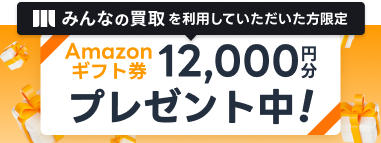
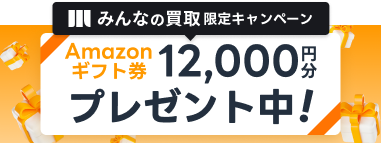
電話CTAのキャンペーンバナーを新デザインに差し替える (#19)
Figma「みんなの買取」202607_電話送客プロジェクトの更新に追従。
上部リボンの文言が「みんなの買取を利用していただいた方限定」から
「みんなの買取限定キャンペーン」に変わった。

- PC 用（760x101）と SP 用（381x143）を @2x とあわせて差し替え
  （コラム_PC 14131:49211 / コラム_SP 14140:42295 から書き出し）
- PC モーダル用（650x106）は Figma 側も変更が無いため据え置き
  （14140:37301 と現行ファイルが同一デザイン）
- 代替テキストを新しい文言に合わせる
- 配布のため Version を 1.10.1 に上げる

Changed region(s): [[0.0289, 0.0, 0.9816, 0.2797], [0.4908, 0.2517, 0.5197, 0.2797]]

diff --git a/inc/phone-cta/class-banners.php b/inc/phone-cta/class-banners.php
@@ -24,7 +24,7 @@ class Madoguchi_Blocks_Phone_Cta_Banners {
 		'kaitori'  => array(
 			'amazon-gift-12000' => array(
 				'label' => 'Amazonギフト券 12,000円分プレゼント中！',
-				'alt'   => 'みんなの買取を利用していただいた方限定 Amazonギフト券12,000円分プレゼント中！',
+				'alt'   => 'みんなの買取限定キャンペーン Amazonギフト券12,000円分プレゼント中！',
 				'link'  => '/campaign/amazon-gift-12000',
 				'pc'    => array( 'file' => 'banner-amazon-gift-12000.png', 'width' => 760, 'height' => 101 ),
 				'sp'    => array( 'file' => 'banner-amazon-gift-12000-sp.png', 'width' => 381, 'height' => 143 ),

diff --git a/madoguchi-blocks.php b/madoguchi-blocks.php
@@ -2,7 +2,7 @@
 /**
  * Plugin Name:       Madoguchi Blocks（記事内コンテンツブロック集）
  * Description:        記事内に設置できるカスタムブロック集。チェックリスト型CTA・条件別カードリンク・買取業者比較テーブル・著者情報・口コミ。テーマ非依存で動作し、REST API 経由でもCSSを同梱して同一デザインを再現します。
- * Version:           1.10.0
+ * Version:           1.10.1
  * Requires at least: 6.6
  * Requires PHP:      7.4
  * Author:            Madoguchi Inc.
